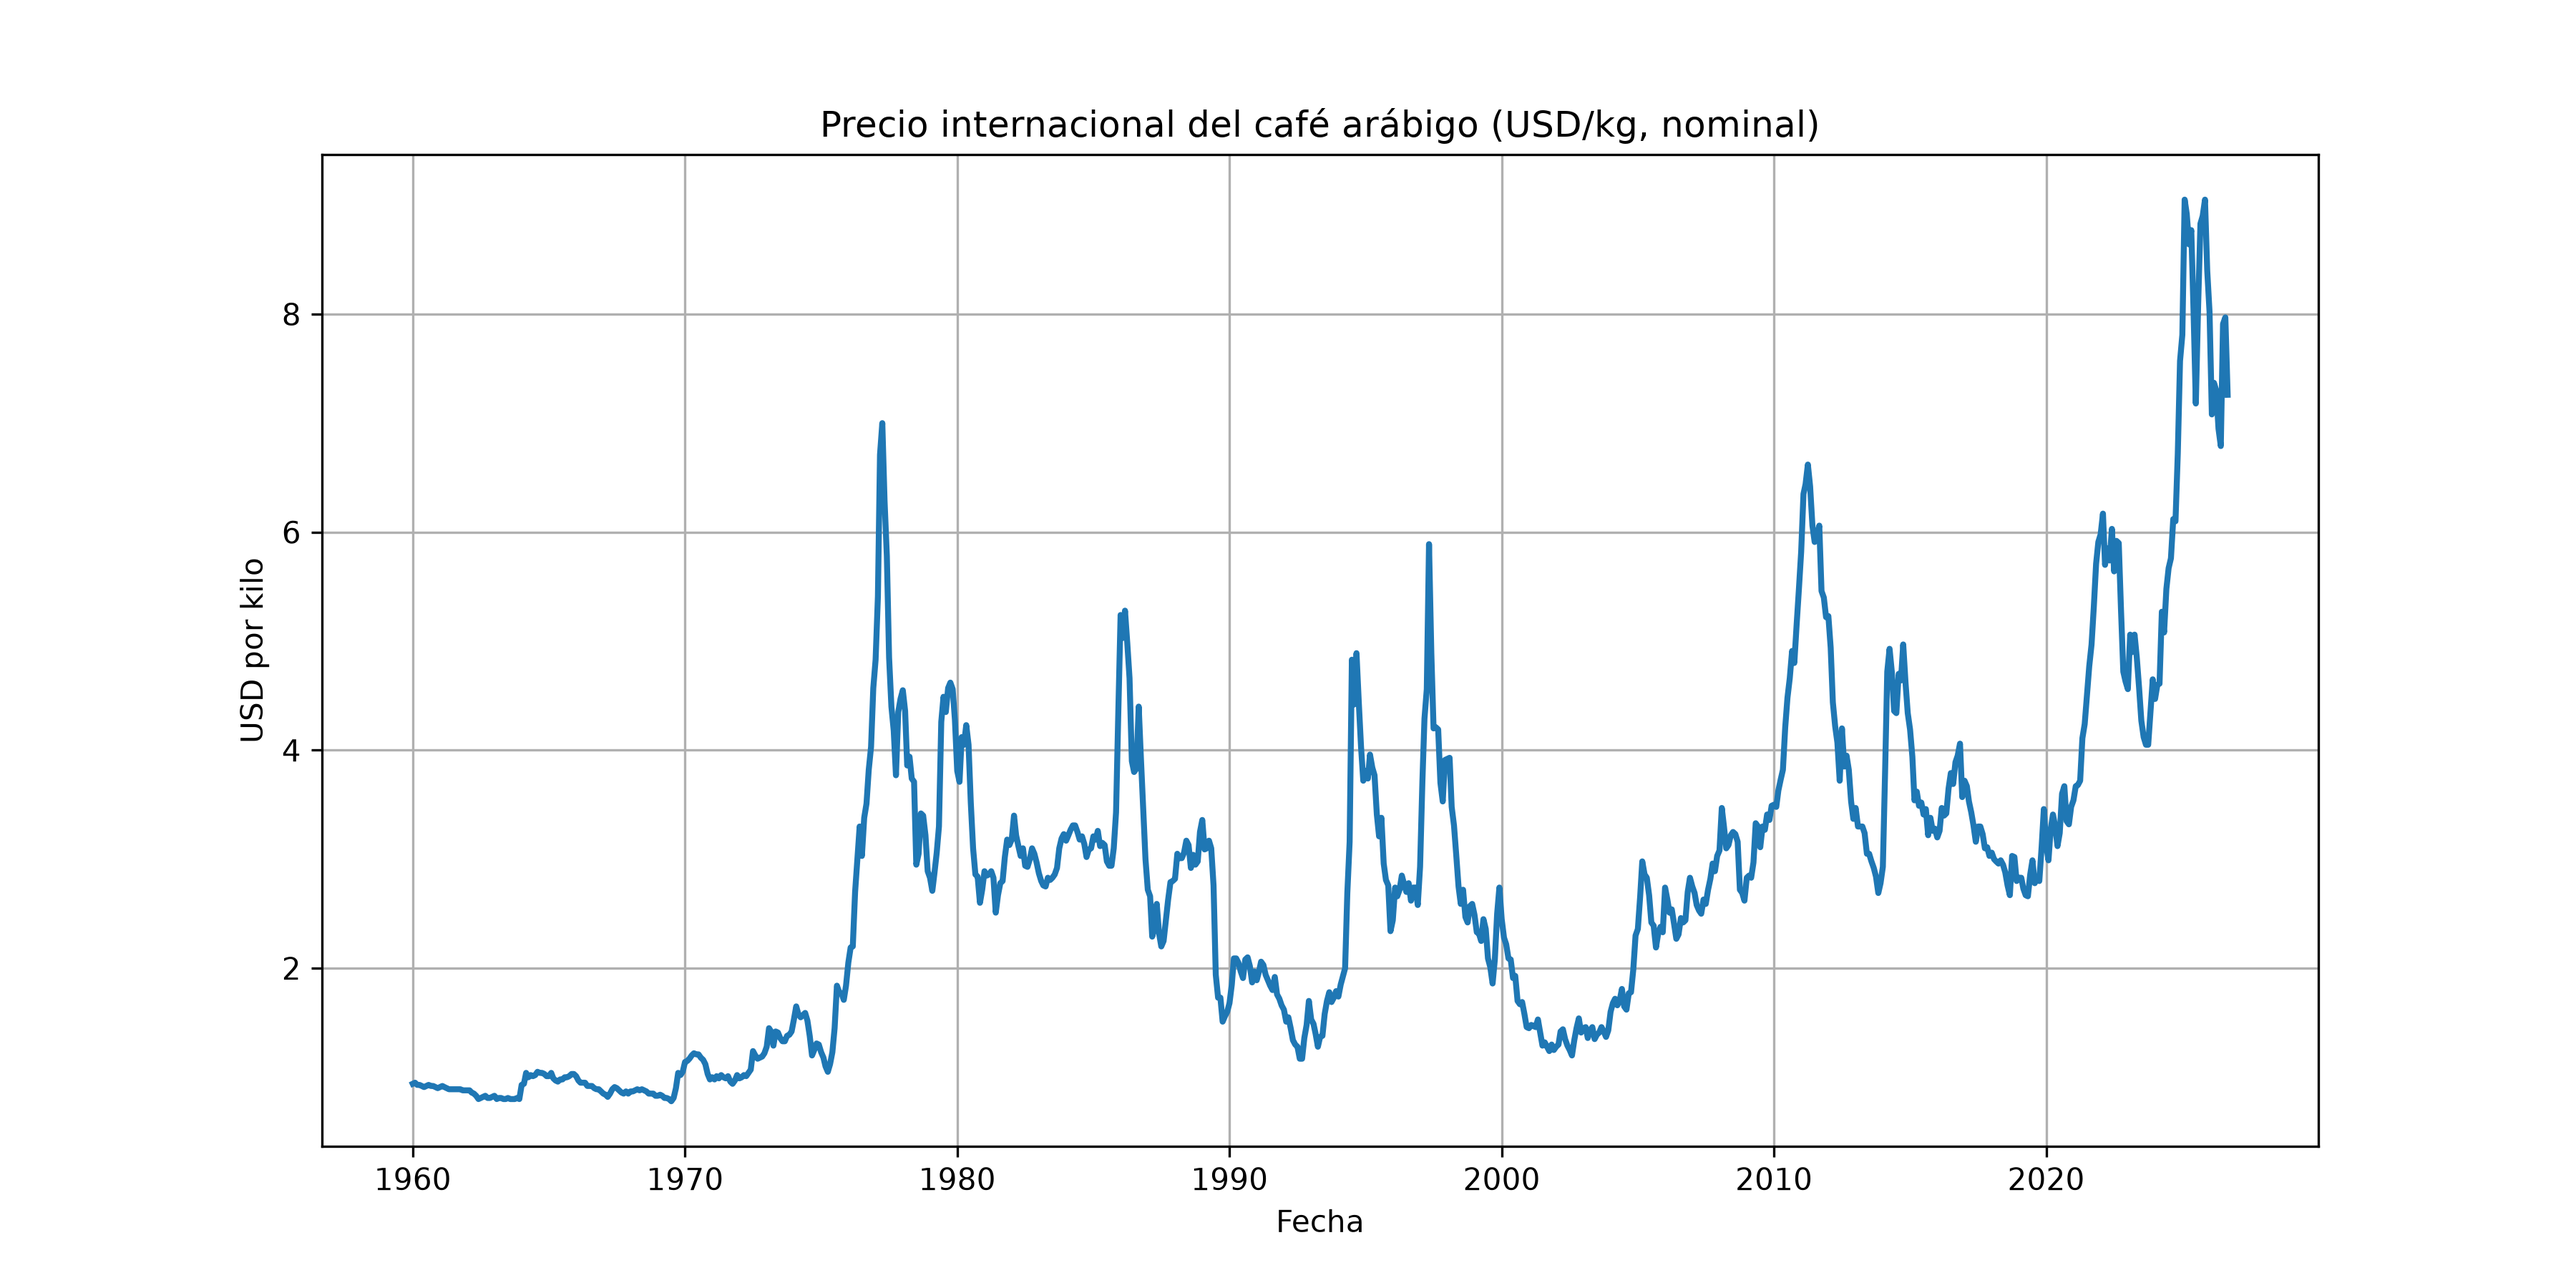
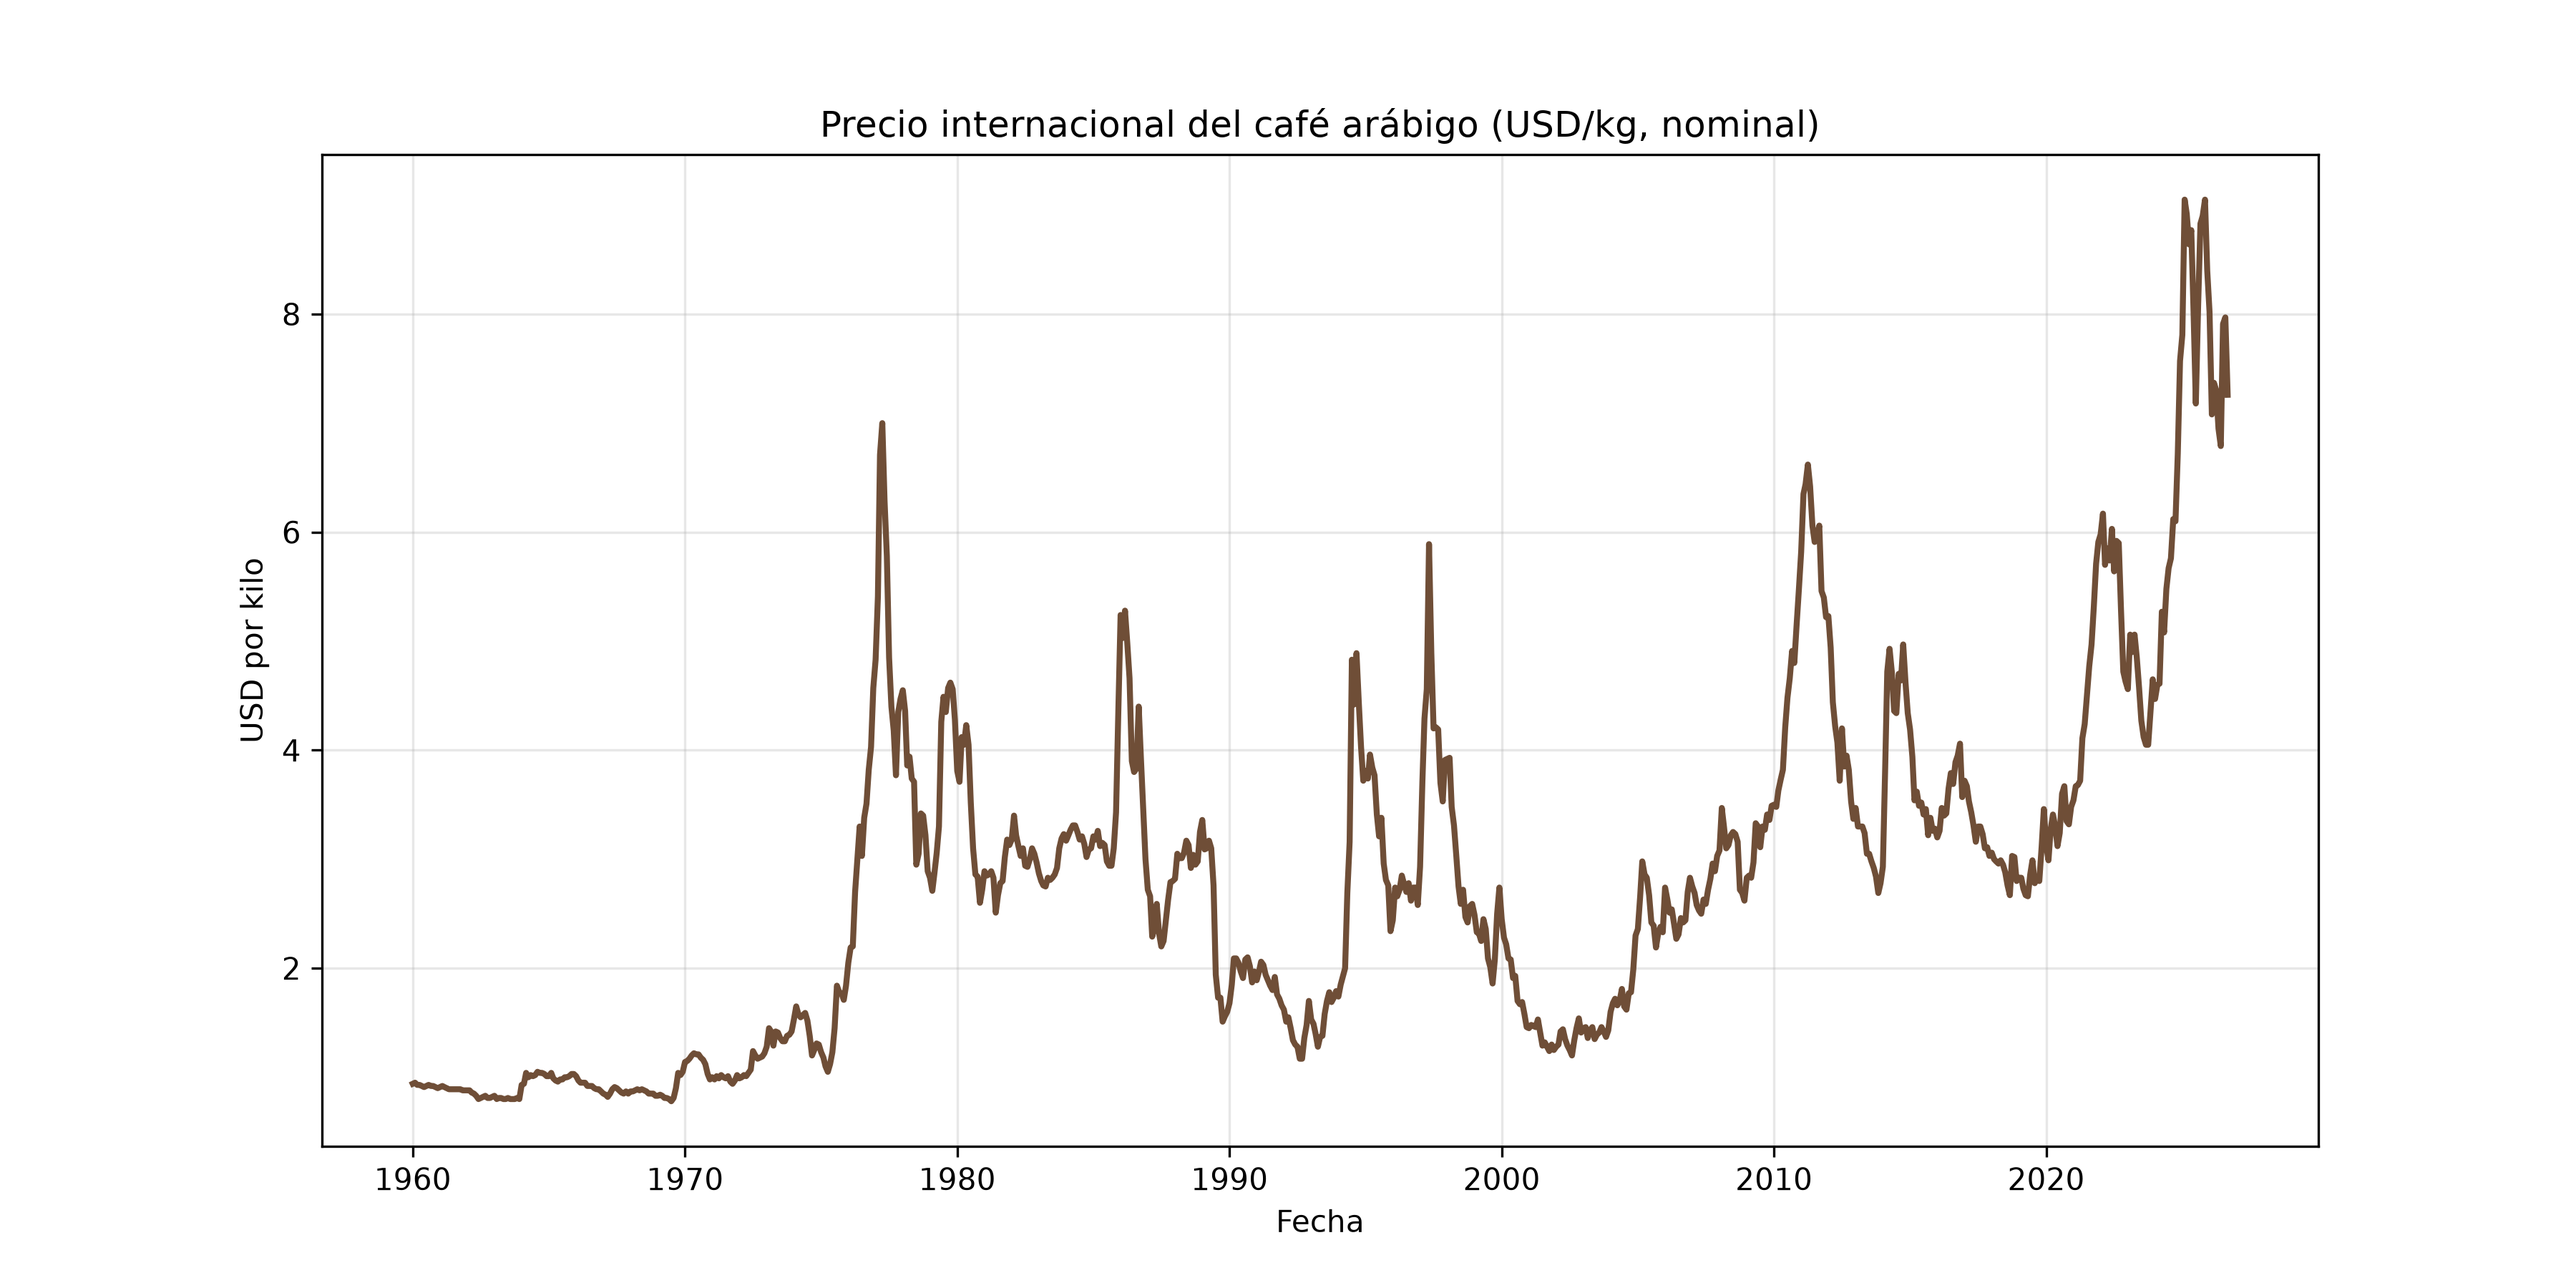
Agregar paleta de colores a las gráficas
- Diccionario COLORES con un color distinto para cada gráfica
- Función colorear_correlograma para FAC y FACP
- Boxplot de estacionalidad en verde azulado
- Cuadrícula más suave y línea en cero en los residuales
- Regenerar serie_original.png con el nuevo color

diff --git a/poster_script.py b/poster_script.py
@@ -24,6 +24,36 @@ ruta_cafe = DATOS / "cafe_arabica.csv" #ruta al archivo de datos
 RESULTADOS = RAIZ / "resultados"  #carpeta para guardar resultados
 RESULTADOS.mkdir(exist_ok=True)  
 
+#%% Paleta de colores para las gráficas
+COLORES = {
+    "original": "#6F4E37",    # café
+    "diferencia": "#2E86AB",  # azul
+    "log_diff": "#3B8B5A",    # verde
+    "fac": "#C0392B",         # rojo
+    "facp": "#8E44AD",        # morado
+    "residuales": "#E67E22",  # naranja
+    "estacional": "#16A085",  # verde azulado
+    "banda": "#7F8C8D",       # gris para bandas de confianza
+}
+
+
+def colorear_correlograma(ax, color):
+    """Aplica un color a las barras, marcadores y banda de confianza de un FAC/FACP."""
+    for linea in ax.lines:
+        if linea.get_marker() not in (None, "None", ""):
+            linea.set_color(color)
+            linea.set_markerfacecolor(color)
+            linea.set_markeredgecolor(color)
+        else:  # línea horizontal en cero
+            linea.set_color("black")
+            linea.set_linewidth(0.8)
+    for coleccion in ax.collections:
+        if coleccion.__class__.__name__ == "LineCollection":
+            coleccion.set_color(color)
+        else:  # banda de confianza
+            coleccion.set_facecolor(COLORES["banda"])
+            coleccion.set_alpha(0.2)
+
 #%% Cargar Datos
 # 3. Datos cargados
 cafe = pd.read_csv(ruta_cafe,
@@ -58,11 +88,11 @@ print(cafe_serie.describe())
 ##############################
 #Gráficos de la serie temporal 
 plt.figure(figsize=(12, 6))
-plt.plot(cafe_serie, linewidth=2)
+plt.plot(cafe_serie, linewidth=2, color=COLORES["original"])
 plt.title("Precio internacional del café arábigo (USD/kg, nominal)")
 plt.xlabel("Fecha")
 plt.ylabel("USD por kilo")
-plt.grid(True)
+plt.grid(True, alpha=0.3)
 plt.savefig(RESULTADOS / "serie_original.png", dpi=300)
 plt.show()
 
@@ -78,6 +108,7 @@ plot_acf(
     ax=axes[0]
 )
 
+colorear_correlograma(axes[0], COLORES["fac"])
 axes[0].set_title("FAC Precios Históricos del Café Arábigo")
 
 plot_pacf(
@@ -87,6 +118,7 @@ plot_pacf(
     ax=axes[1]
 )
 
+colorear_correlograma(axes[1], COLORES["facp"])
 axes[1].set_title("FACP Precios Históricos del Café Arábigo")
 
 plt.tight_layout()
@@ -141,11 +173,11 @@ cafe_serie_diff = cafe_serie.diff().dropna()
 
 # Gráfica de la serie de tiempo de la "diferencia exportaciones tradicionales"
 plt.figure(figsize=(10, 5))
-plt.plot(cafe_serie_diff)
+plt.plot(cafe_serie_diff, color=COLORES["diferencia"])
 plt.title("Serie diferenciada")
 plt.xlabel("Año")
 plt.ylabel("Precio")
-plt.grid(True)
+plt.grid(True, alpha=0.3)
 plt.show()
 # %% Diferencia del logaritmo
 
@@ -153,11 +185,11 @@ cafe_serie_log_diff = np.log(cafe_serie).diff().dropna()
 
 # Gráfica de la serie de tiempo de la "diferencia del logaritmo de exportaciones tradicionales"
 plt.figure(figsize=(10, 5))
-plt.plot(cafe_serie_log_diff)
+plt.plot(cafe_serie_log_diff, color=COLORES["log_diff"])
 plt.title("Diferencia del logaritmo de la serie original")
 plt.xlabel("Año")
 plt.ylabel("Precio")
-plt.grid(True)
+plt.grid(True, alpha=0.3)
 plt.show()
 
 # %% FAC y FACP de la diferencia del logaritmo
@@ -172,6 +204,7 @@ plot_acf(
     ax=axes[0]
 )
 
+colorear_correlograma(axes[0], COLORES["fac"])
 axes[0].set_title("FAC de la diferencia del logaritmo")
 
 plot_pacf(
@@ -181,6 +214,7 @@ plot_pacf(
     ax=axes[1]
 )
 
+colorear_correlograma(axes[1], COLORES["facp"])
 axes[1].set_title("FACP de la diferencia del logaritmo")
 
 plt.tight_layout()
@@ -249,11 +283,12 @@ type(residuales)
 
 # Gráfica de los residuales (deberían comportarse como ruido blanco)
 plt.figure(figsize=(10, 5))
-plt.plot(residuales.iloc[1:-1])
+plt.plot(residuales.iloc[1:-1], color=COLORES["residuales"])
+plt.axhline(0, color="black", linewidth=0.8, linestyle="--")
 plt.title("Residuales del modelo AR(1)")
 plt.xlabel("Fecha")
 plt.ylabel("Precio")
-plt.grid(True)
+plt.grid(True, alpha=0.3)
 plt.show()
 
 # Descripción de los residuales 
@@ -274,13 +309,21 @@ meses = ["Ene", "Feb", "Mar", "Abr", "May", "Jun",
 grupos = [dlog[dlog.index.month == m] for m in range(1, 13)]
 
 plt.figure(figsize=(10, 5))
-plt.boxplot(grupos)
+plt.boxplot(
+    grupos,
+    patch_artist=True,
+    boxprops=dict(facecolor=COLORES["estacional"], alpha=0.6, edgecolor=COLORES["estacional"]),
+    medianprops=dict(color="black"),
+    whiskerprops=dict(color=COLORES["estacional"]),
+    capprops=dict(color=COLORES["estacional"]),
+    flierprops=dict(markeredgecolor=COLORES["estacional"]),
+)
 plt.xticks(range(1, 13), meses)
 plt.axhline(0, color="gray", linewidth=1)
 plt.title("Variación logarítmica mensual del precio por mes del año")
 plt.xlabel("Mes")
 plt.ylabel("Δ log(precio)")
-plt.grid(True)
+plt.grid(True, alpha=0.3)
 plt.show()
 
 # Promedio de la variación por mes
